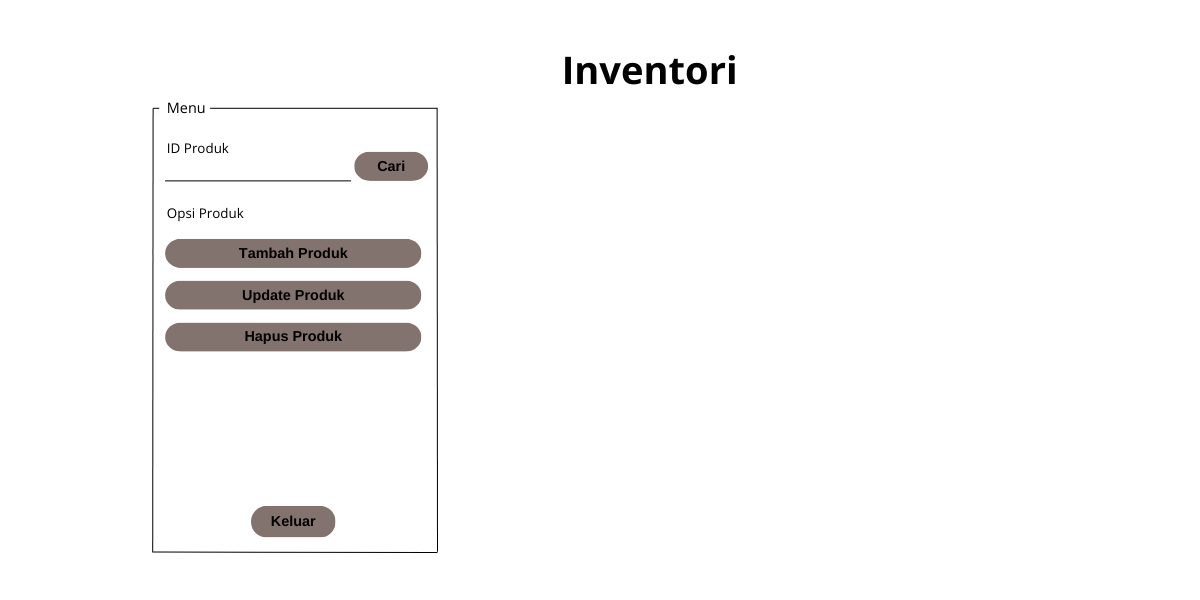
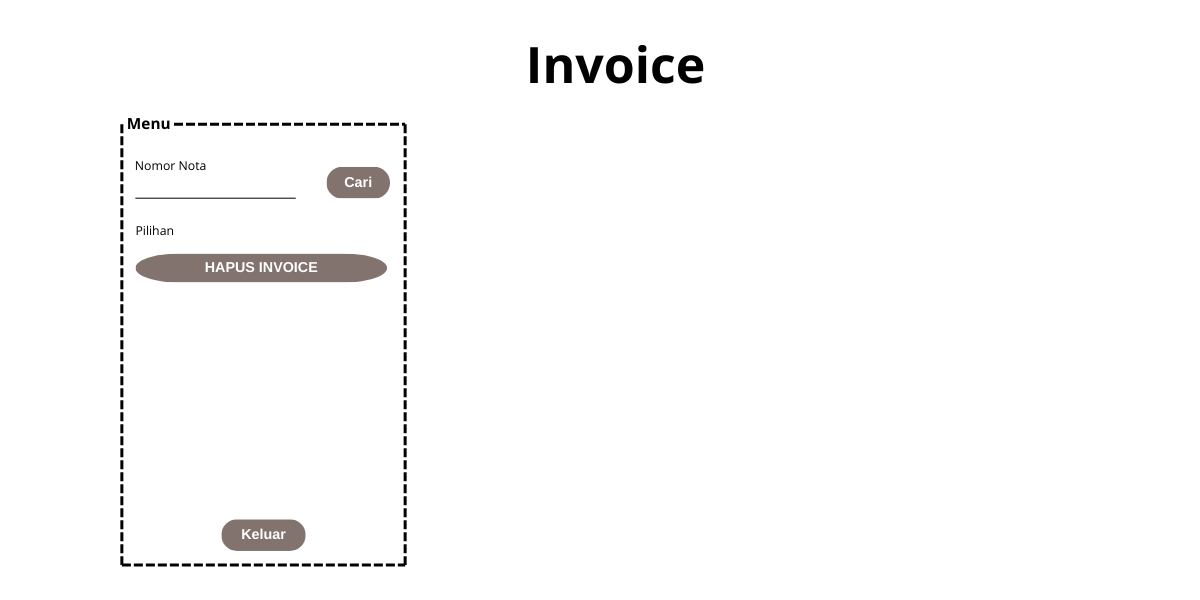
menambah fitur invoice

Changed region(s): [[0.0925, 0.18, 0.37, 0.6], [0.0925, 0.84, 0.3392, 0.96], [0.4317, 0.09, 0.6167, 0.15]]

diff --git a/Grocery.py b/Grocery.py
@@ -642,6 +642,108 @@ class AdminPanel:
         label_image.config(image=img)
         label_image.image = img
 
+        self.kodeinvo = Entry(invo_window)
+        self.kodeinvo.place(relx=0.112, rely=0.286, width=163, height=25)
+        self.kodeinvo.configure(font="-family {arial} -size 12")
+        self.kodeinvo.configure(relief="flat")
+
+        button_kodeinvo = Button(invo_window)
+        button_kodeinvo.place(relx=0.132, rely=0.286,width=76,height=23)
+        button_kodeinvo.configure(relief="flat")
+        button_kodeinvo.configure(overrelief="flat")
+        button_kodeinvo.configure(activebackground="#82736F")
+        button_kodeinvo.configure(cursor="hand2")
+        button_kodeinvo.configure(foreground="#ffffff")
+        button_kodeinvo.configure(font="Arial")
+        button_kodeinvo.configure(borderwidth="0")
+        button_kodeinvo.configure(text="Search")
+        button_kodeinvo.configure(command=self.search_invo)
+
+        button_keluarinvo = Button(invo_window)
+        button_keluarinvo.place(relx=0.120, rely=0.486,width=76,height=23)
+        button_keluarinvo.configure(relief="flat")
+        button_keluarinvo.configure(overrelief="flat")
+        button_keluarinvo.configure(activebackground="#82736F")
+        button_keluarinvo.configure(cursor="hand2")
+        button_keluarinvo.configure(foreground="#ffffff")
+        button_keluarinvo.configure(font="Arial")
+        button_keluarinvo.configure(borderwidth="0")
+        button_keluarinvo.configure(text="Keluar")
+        button_keluarinvo.configure(command=self.keluar_invo)
+
+        button_hapusinvo = Button(invo_window)
+        button_hapusinvo.place(relx=0.112, rely=0.312,width=110,height=23)
+        button_hapusinvo.configure(relief="flat")
+        button_hapusinvo.configure(overrelief="flat")
+        button_hapusinvo.configure(activebackground="#82736F")
+        button_hapusinvo.configure(cursor="hand2")
+        button_hapusinvo.configure(foreground="#ffffff")
+        button_hapusinvo.configure(font="Arial")
+        button_hapusinvo.configure(borderwidth="0")
+        button_hapusinvo.configure(text="Hapus Invoice")
+        button_hapusinvo.configure(command=self.hapus_invo)
+
+        self.scrollbarx = Scrollbar(invo_window,orient=HORIZONTAL)
+        self.scrollbary = Scrollbar(invo_window,orient=VERTICAL)
+        self.tree = ttk.Treeview(invo_window)
+        self.tree.place(relx=0.307, rely=0.203, width=880, height=550)
+        self.tree.configure(
+            yscrollcommand=self.scrollbary.set, xscrollcommand=self.scrollbarx.set)
+        
+        self.tree.configure(selectmode="extended")
+
+        self.tree.bind("<<TreeviewSelect>>", self.on_tree_select)
+        self.tree.bind("<Double-1>", self.double_tap)
+
+        self.scrollbary.configure(command=self.tree.yview)
+        self.scrollbarx.configure(command=self.tree.xview)
+
+        self.scrollbary.place(relx=0.954, rely=0.203, width=22, height=548)
+        self.scrollbarx.place(relx=0.307, rely=0.924, width=884, height=22)
+
+        self.tree.configure(
+            columns=(
+                "Bill Number",
+                "Date",
+                "Customer Name",
+                "Customer Phone No.",
+            )
+        )
+
+        self.tree.heading("Bill Number", text="Bill Number", anchor=W)
+        self.tree.heading("Date", text="Date", anchor=W)
+        self.tree.heading("Customer Name", text="Customer Name", anchor=W)
+        self.tree.heading("Customer Phone No.", text="Customer Phone No.", anchor=W)
+        
+
+        self.tree.column("#0", stretch=NO, minwidth=0, width=0)
+        self.tree.column("#1", stretch=NO, minwidth=0, width=219)
+        self.tree.column("#2", stretch=NO, minwidth=0, width=219)
+        self.tree.column("#3", stretch=NO, minwidth=0, width=219)
+        self.tree.column("#4", stretch=NO, minwidth=0, width=219)
+        
+
+        self.DisplayData()
+
+    def search_invo(self):
+        pass
+    
+    def keluar_invo(self):
+        pass
+    
+    def hapus_invo(self):
+        pass
+
+    def double_tap(self):
+        pass
+
+    def DisplayData(self):
+        pass
+
+
+
+
+
 
 if __name__ == "__main__":
     root = Tk()
